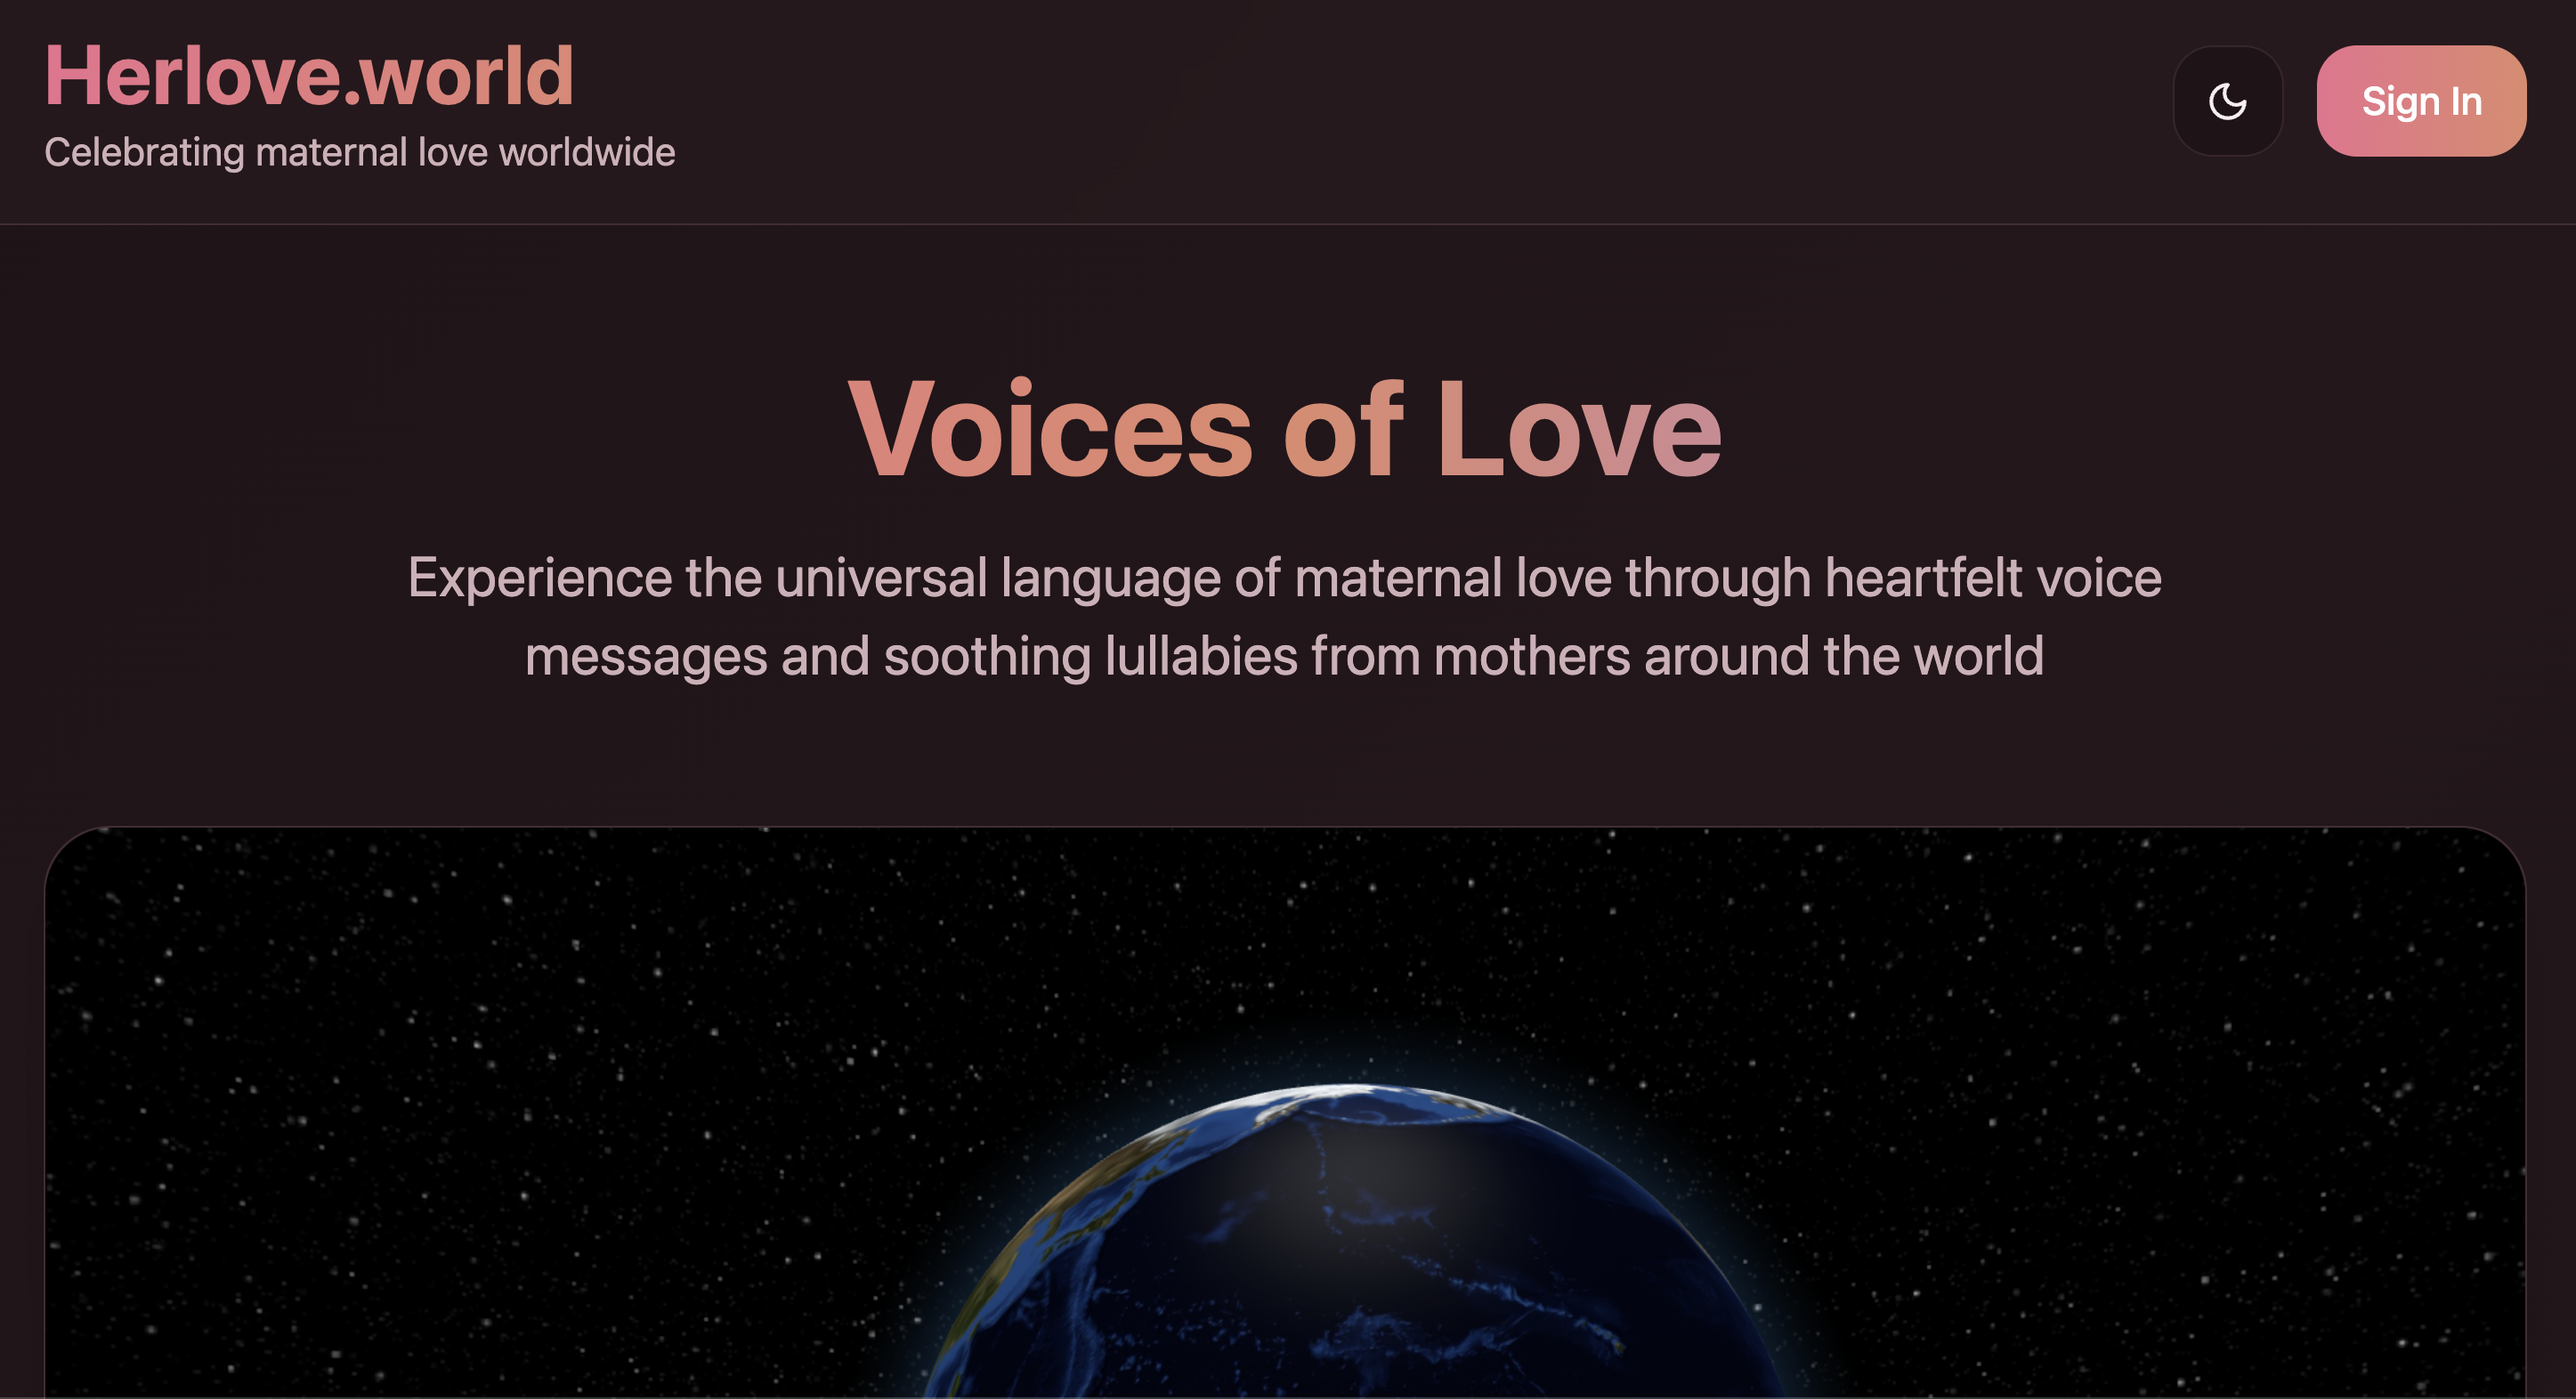
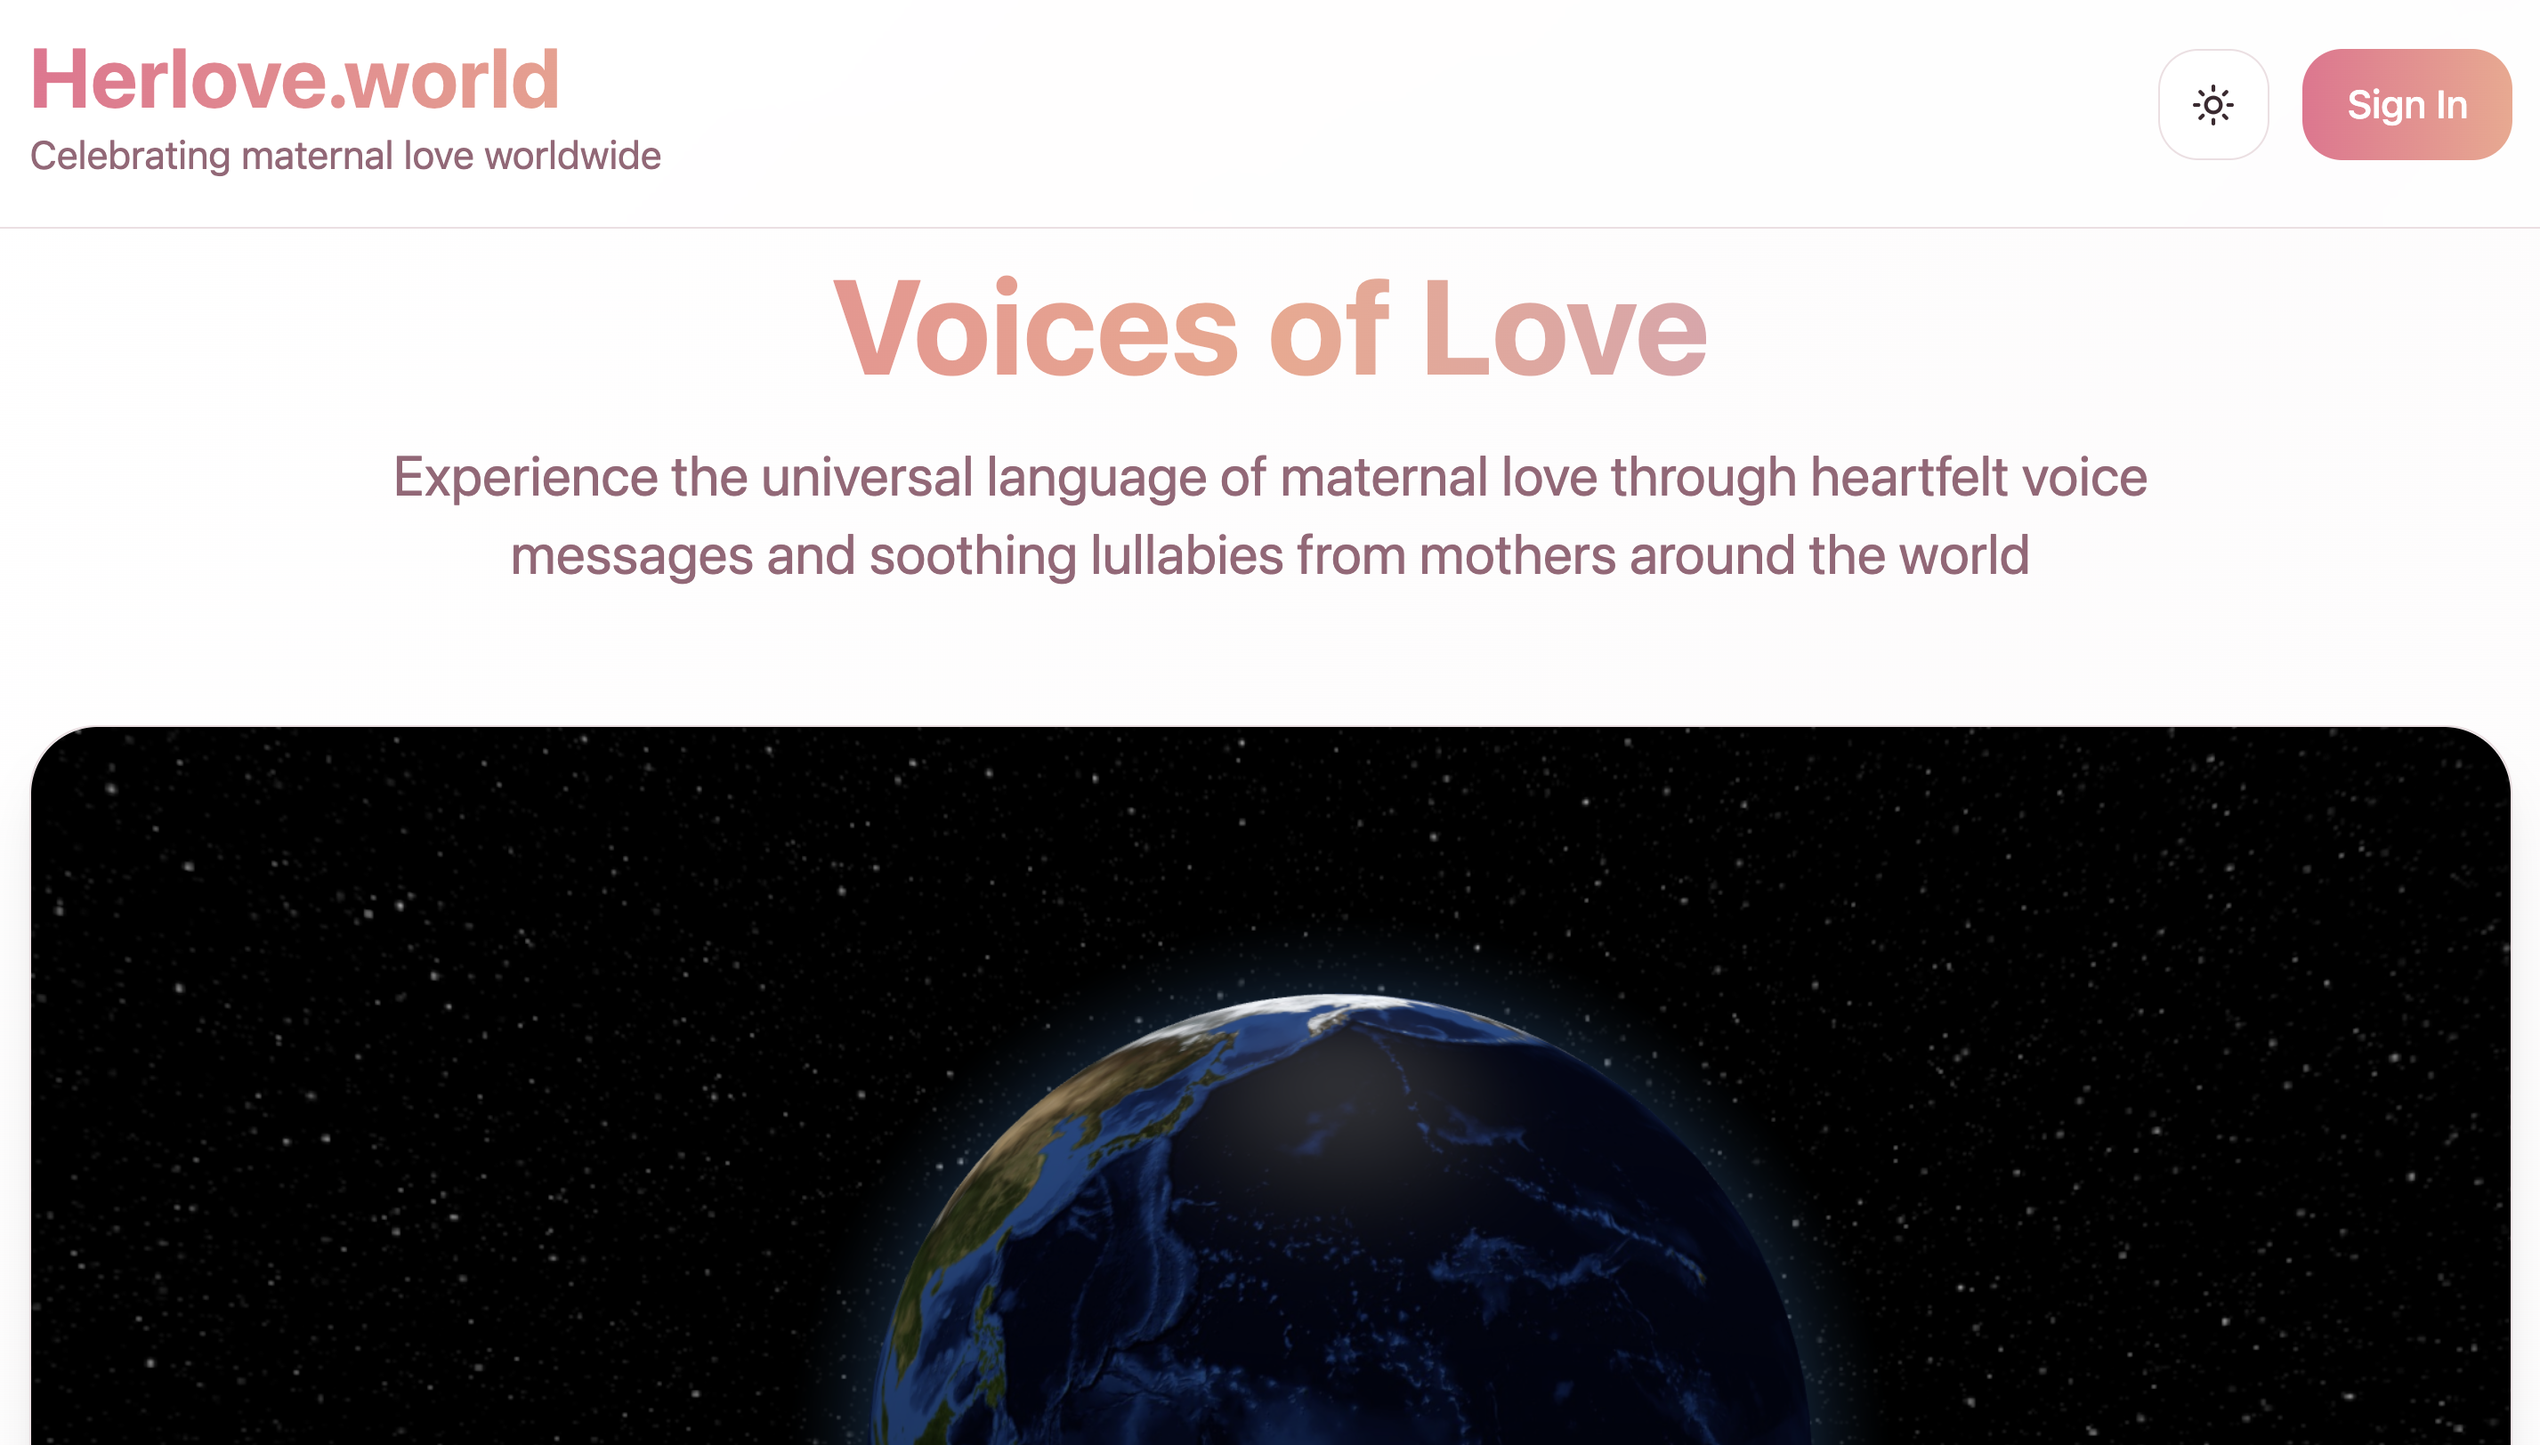
added back herlove project

diff --git a/styles.css b/styles.css
@@ -496,17 +496,35 @@
     }
   }
 
+  /* Flex instead of grid so an incomplete last row is centred */
   .projects__grid {
     max-width: 1100px;
     margin: 0 auto;
     /* margin-top: 5rem; */
-    display: grid;
-    /* grid-template-columns: repeat(auto-fit, minmax(18em, 1fr)); */
-    grid-template-columns: repeat(auto-fill, minmax(18em, 1fr));
+    display: flex;
+    flex-wrap: wrap;
     justify-content: center;
-    grid-gap: 1.5em;
     align-items: stretch;
     gap: 2rem;
+    container-type: inline-size;
+  }
+
+  /* 1 / 2 / 3 columns, switching where 18em-wide cards stop fitting */
+  .projects__grid > .project {
+    flex: 0 0 100%;
+    margin: 0;
+  }
+
+  @container (min-width: calc(36em + 2rem)) {
+    .projects__grid > .project {
+      flex-basis: calc((100% - 2rem) / 2);
+    }
+  }
+
+  @container (min-width: calc(54em + 4rem)) {
+    .projects__grid > .project {
+      flex-basis: calc((100% - 4rem) / 3);
+    }
   }
 
   .project {
